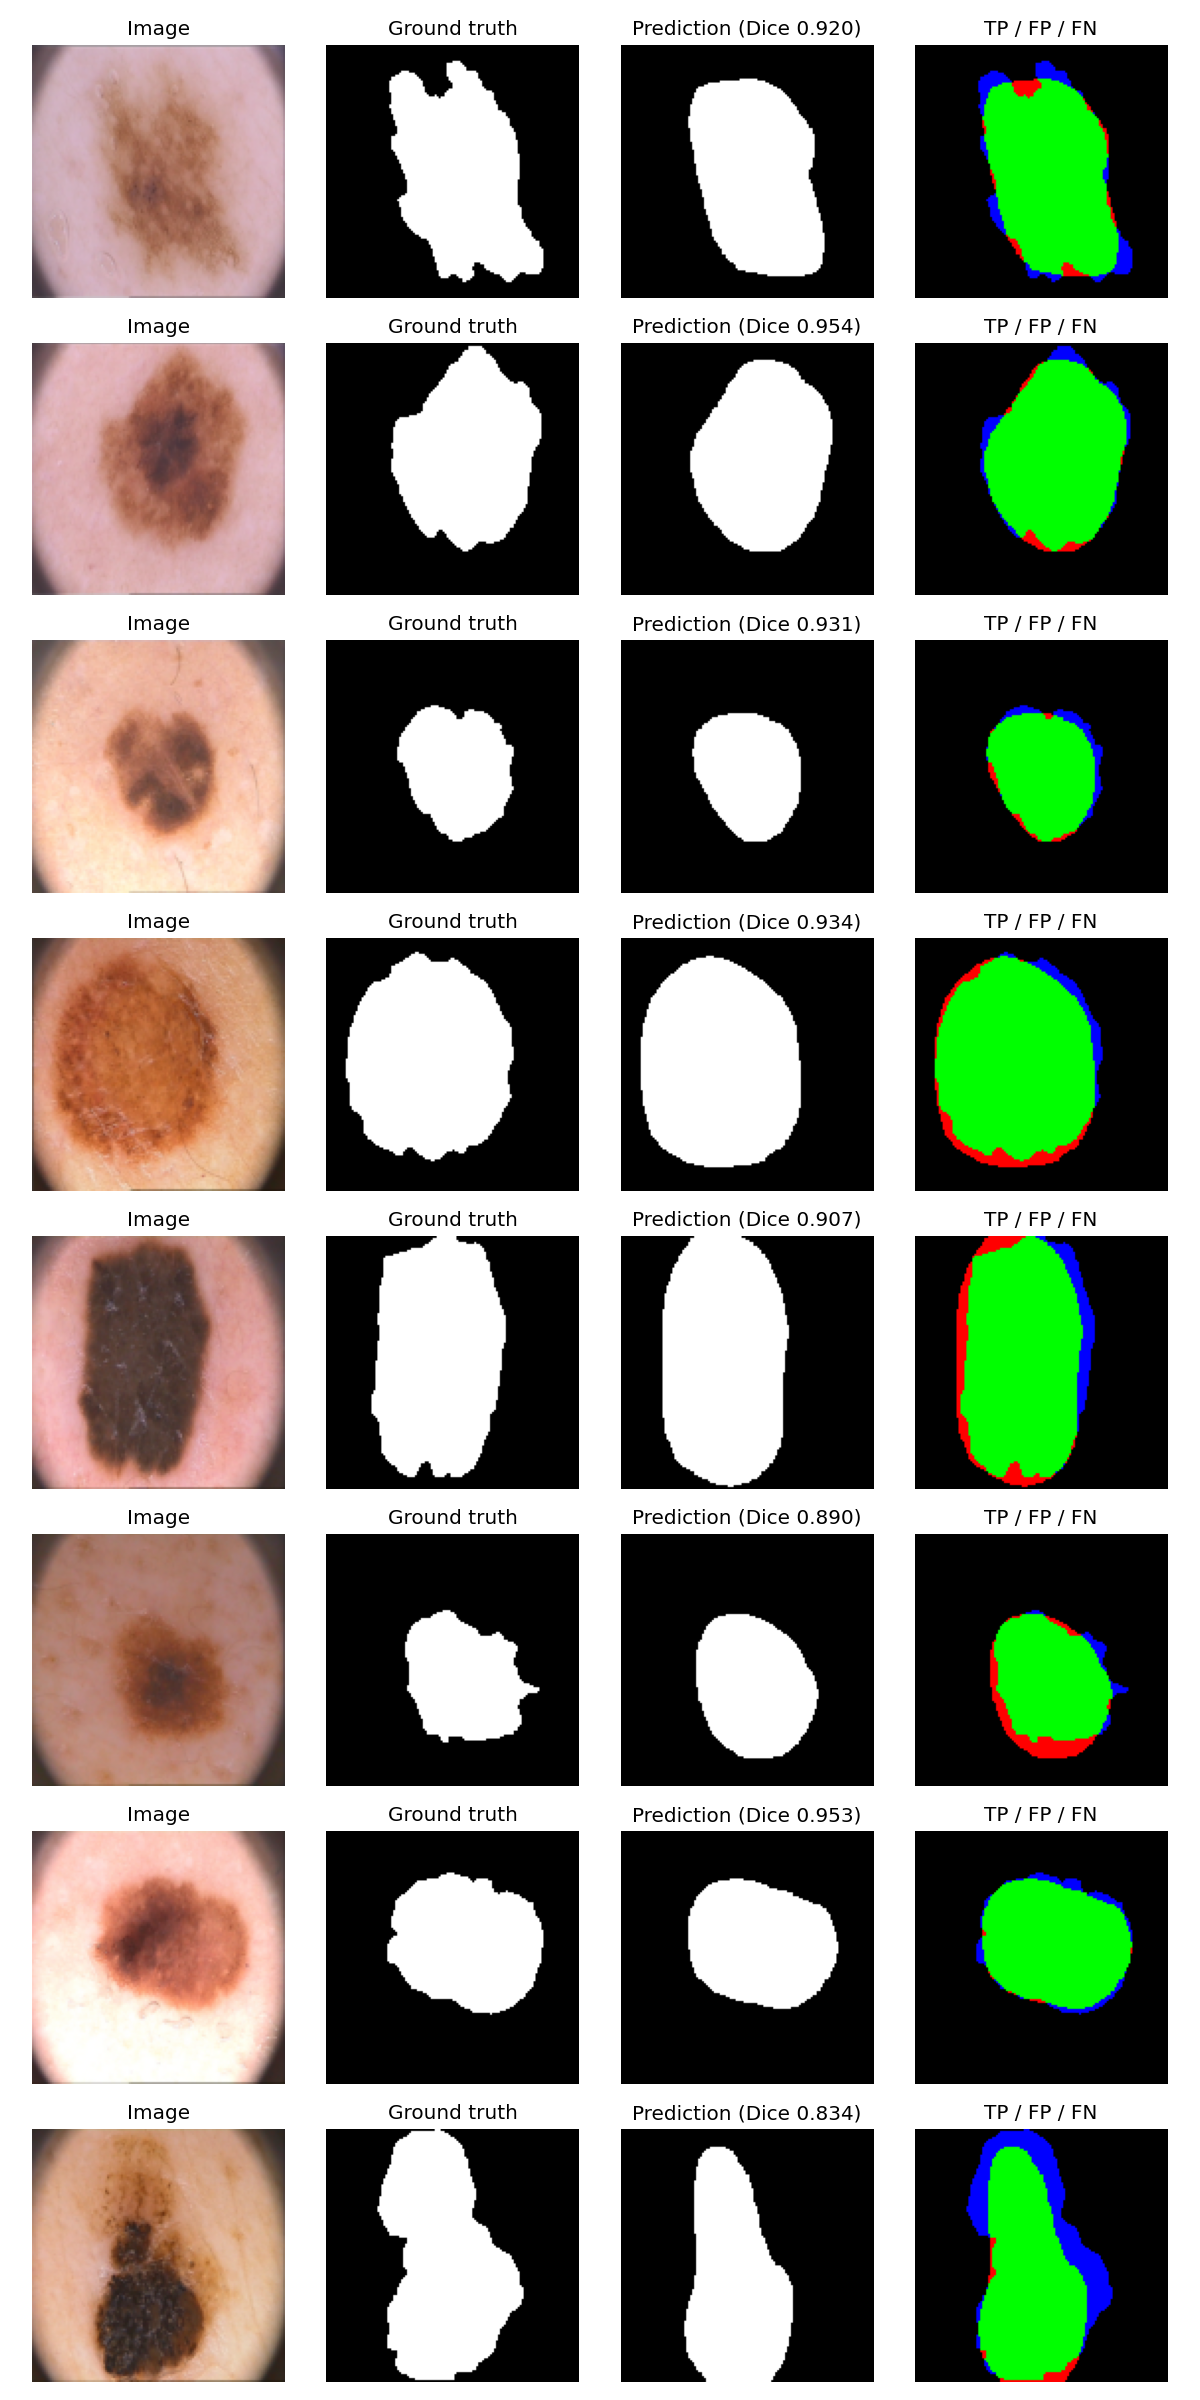
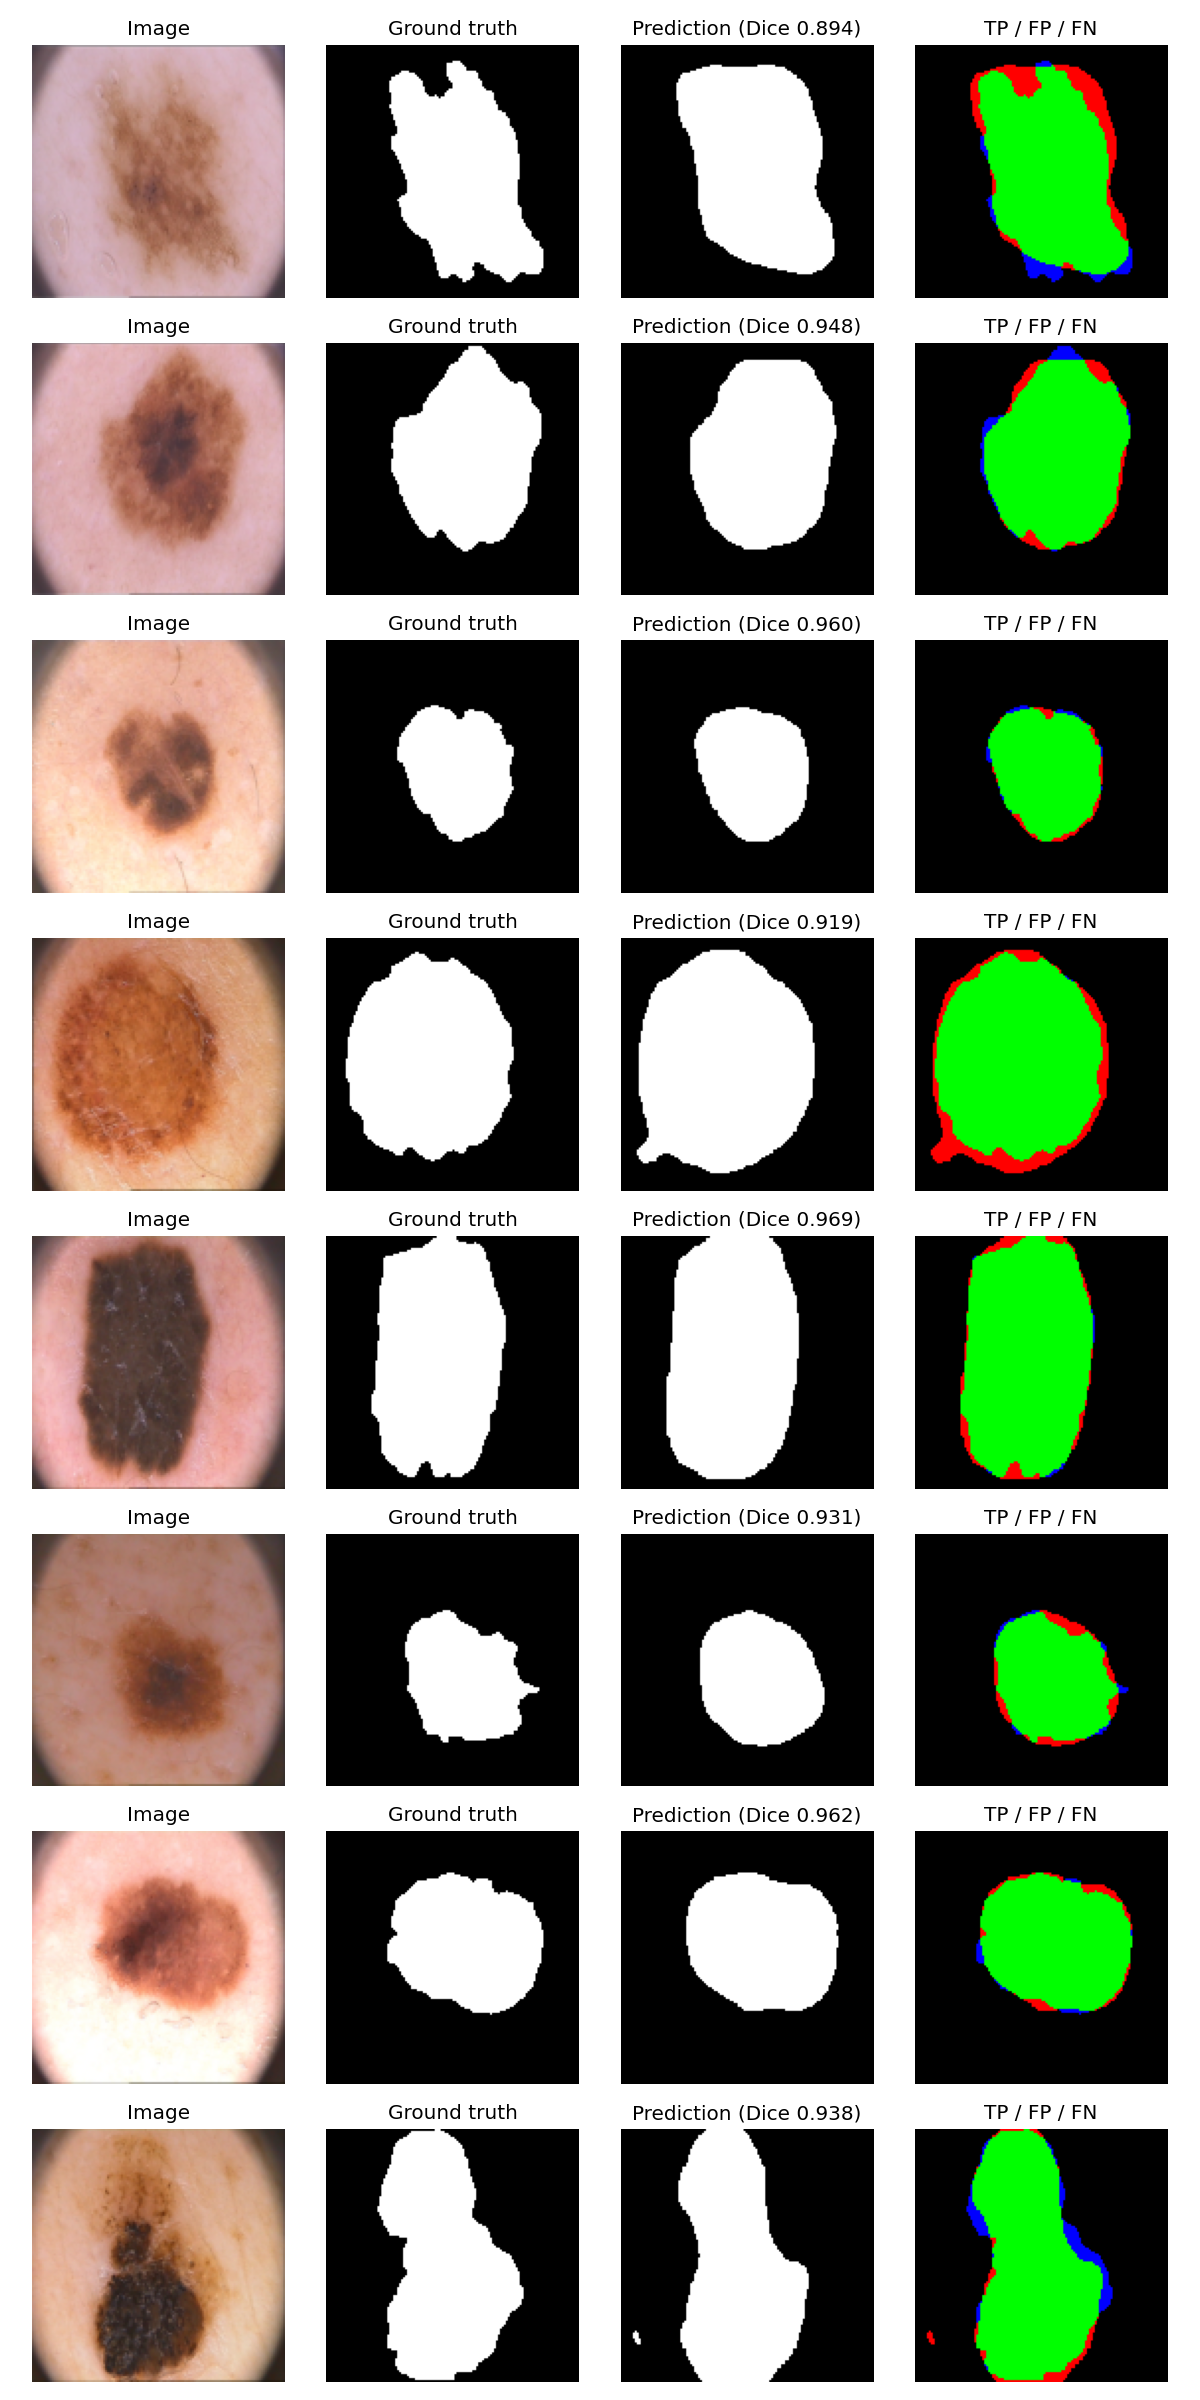
Reran all the training to get all the metrics for all the splits

diff --git a/EncDec/EncDec_main.py b/EncDec/EncDec_main.py
@@ -17,8 +17,8 @@ seed = 42
 size = 128
 batch_size = 3
 learning_rate = 0.001
-epochs = 400
-dataset = "DRIVE"
+epochs = 30
+dataset = "PH2"
 
 transform = transforms.Compose([transforms.Resize((size, size)),
                                 transforms.ToTensor()])
@@ -26,7 +26,7 @@ dataset_ph2 = PH2(transform=transform)
 dataset_drive = DRIVE(train=True, transform=transform)
 
 train_set, val_set, test_set = torch.utils.data.random_split(
-    dataset_drive, [0.7, 0.1, 0.2], generator=torch.Generator().manual_seed(seed))
+    dataset_ph2, [0.7, 0.1, 0.2], generator=torch.Generator().manual_seed(seed))
 
 train_loader = DataLoader(train_set, batch_size=batch_size, shuffle=True, num_workers=3)
 val_loader = DataLoader(val_set, batch_size=batch_size, shuffle=False, num_workers=3)
@@ -39,7 +39,7 @@ print(f"Loaded {len(test_set)} test images")
 device = torch.device("cuda") if torch.cuda.is_available() else torch.device("cpu")
 model = EncDec().to(device)
 opt = optim.Adam(model.parameters(), learning_rate)
-loss_fn = FocalLoss()
+loss_fn = BCELoss()
 metrics = SegmentationMetrics(threshold=0.5, from_logits=True)
 
 results_dir = "IDLCV_03/EncDec/results"
@@ -92,9 +92,15 @@ with open(f"{results_dir}/history_{dataset}.csv", "w", newline="") as f:
     w.writerows(history)
 
 model.load_state_dict(torch.load(f"{results_dir}/best_model.pth", map_location=device))
-_, test_m = evaluate(test_loader)
-with open(f"{results_dir}/test_metrics_{dataset}.json", "w") as f:
-    json.dump(test_m, f, indent=2)
+splits = {"train": train_loader, "val": val_loader, "test": test_loader}
+all_metrics = {}
+for name, loader in splits.items():
+    _, m = evaluate(loader)
+    all_metrics[name] = m
+    print(f"{name:5s}: " + " | ".join(f"{k}={v:.4f}" for k, v in m.items()))
+
+with open(f"{results_dir}/final_metrics_{dataset}_.json", "w") as f:
+    json.dump(all_metrics, f, indent=2)
 
 
 @torch.no_grad()
